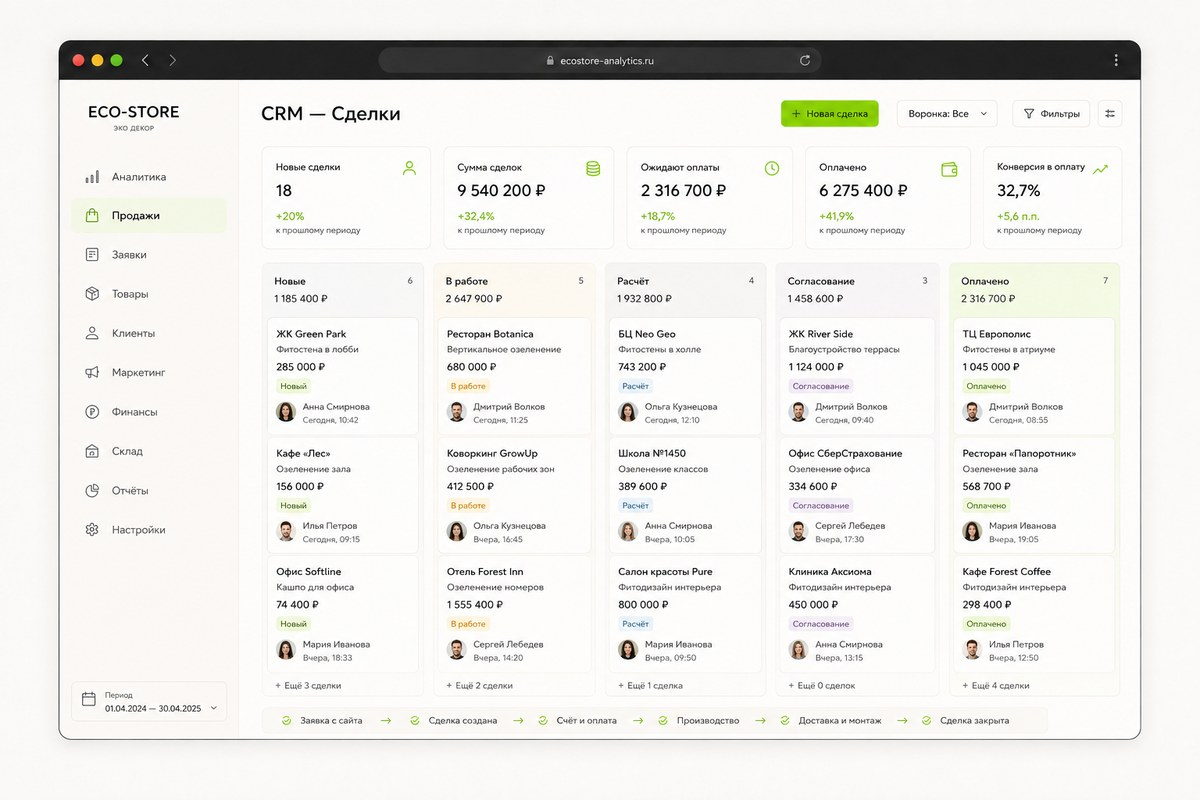
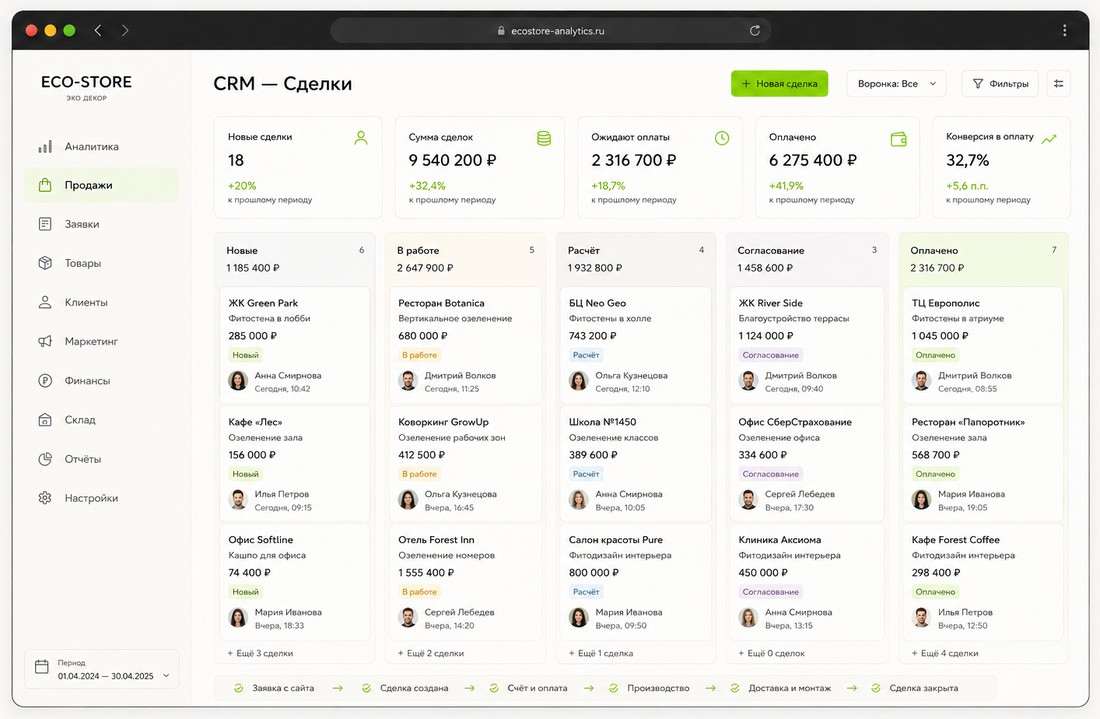
Обложка кейса Eco-Store: убрать «купола» и наложение стрелки на мобиле
- Скриншоты обрезаны вплотную к окну браузера (без внешнего паддинга
  макета), убран эффект «плавающего купола» при кропе.
- Единый радиус скругления углов на всех трёх окошках стека вместо
  разных (было асимметрично у первого).
- Компактнее величина цифры в .case-cover-stat на мобильной версии —
  стрелка карусели больше не перекрывает подпись «рабочий месячный
  оборот».

diff --git a/site/case-preview.html b/site/case-preview.html
@@ -1115,11 +1115,11 @@ h2.sec-title{
 /* Стопка экранов на обложке: настоящий сайт спереди, остальные —
    плейсхолдеры до реальных скринов (Каталог/Bitrix/CRM). */
 .case-cover-stack{position:absolute;z-index:1;right:1%;bottom:-3%;width:62%;height:56%;}
-.case-cover-stack>*{position:absolute;border-radius:10px;box-shadow:0 18px 45px rgba(0,0,0,.5);overflow:hidden;}
+.case-cover-stack>*{position:absolute;border-radius:12px;box-shadow:0 18px 45px rgba(0,0,0,.5);overflow:hidden;}
 .case-cover-stack .case-cover-shot{display:block;object-fit:cover;}
-.case-cover-stack .case-cover-1{left:0;bottom:0;width:46%;height:72%;z-index:3;border-radius:14px 14px 0 0;}
-.case-cover-stack .case-cover-2{left:32%;top:4%;width:38%;height:88%;z-index:2;}
-.case-cover-stack .case-cover-3{left:62%;top:16%;width:34%;height:62%;z-index:1;}
+.case-cover-stack .case-cover-1{left:0;bottom:0;width:46%;height:64%;z-index:3;}
+.case-cover-stack .case-cover-2{left:32%;top:10%;width:38%;height:70%;z-index:2;}
+.case-cover-stack .case-cover-3{left:62%;top:20%;width:34%;height:56%;z-index:1;}
 /* Декоративная линия роста между заголовком и цифрой оборота */
 .case-cover-graph{position:absolute;z-index:2;left:2%;top:52%;width:22%;height:20%;pointer-events:none;overflow:visible;}
 .case-cover-graph .dot-start{fill:rgba(168,220,40,.6);}
@@ -1507,7 +1507,9 @@ h2.sec-title{
   .case-analysis-grid,.case-traffic-grid,.case-pack-grid,.case-system-grid,.case2-grid{grid-template-columns:1fr;height:auto;gap:clamp(14px,4vw,22px);}
   .case2-grid .case2-photo{aspect-ratio:16/10;height:auto;object-fit:cover;}
   .case-cols{grid-template-columns:1fr 1fr;gap:clamp(14px,4vw,22px);}
-  .case-cover-copy{width:100%;}.case-cover-stat{position:static;margin-top:16px;text-align:left;}
+  .case-cover-copy{width:100%;}.case-cover-stat{position:static;margin-top:8px;text-align:left;}
+  .case-cover-stat span{font-size:18px;}
+  .case-cover-stat b{font-size:32px;line-height:1;}
   .case-cover-graph{display:none;}
   .case-cover-stack{position:relative;right:auto;bottom:auto;width:100%;height:220px;margin:16px 0 0;}
   /* картинки не обрезаем — полностью, в своих природных пропорциях */

diff --git a/site/index.html b/site/index.html
@@ -1115,11 +1115,11 @@ h2.sec-title{
 /* Стопка экранов на обложке: настоящий сайт спереди, остальные —
    плейсхолдеры до реальных скринов (Каталог/Bitrix/CRM). */
 .case-cover-stack{position:absolute;z-index:1;right:1%;bottom:-3%;width:62%;height:56%;}
-.case-cover-stack>*{position:absolute;border-radius:10px;box-shadow:0 18px 45px rgba(0,0,0,.5);overflow:hidden;}
+.case-cover-stack>*{position:absolute;border-radius:12px;box-shadow:0 18px 45px rgba(0,0,0,.5);overflow:hidden;}
 .case-cover-stack .case-cover-shot{display:block;object-fit:cover;}
-.case-cover-stack .case-cover-1{left:0;bottom:0;width:46%;height:72%;z-index:3;border-radius:14px 14px 0 0;}
-.case-cover-stack .case-cover-2{left:32%;top:4%;width:38%;height:88%;z-index:2;}
-.case-cover-stack .case-cover-3{left:62%;top:16%;width:34%;height:62%;z-index:1;}
+.case-cover-stack .case-cover-1{left:0;bottom:0;width:46%;height:64%;z-index:3;}
+.case-cover-stack .case-cover-2{left:32%;top:10%;width:38%;height:70%;z-index:2;}
+.case-cover-stack .case-cover-3{left:62%;top:20%;width:34%;height:56%;z-index:1;}
 /* Декоративная линия роста между заголовком и цифрой оборота */
 .case-cover-graph{position:absolute;z-index:2;left:2%;top:52%;width:22%;height:20%;pointer-events:none;overflow:visible;}
 .case-cover-graph .dot-start{fill:rgba(168,220,40,.6);}
@@ -1507,7 +1507,9 @@ h2.sec-title{
   .case-analysis-grid,.case-traffic-grid,.case-pack-grid,.case-system-grid,.case2-grid{grid-template-columns:1fr;height:auto;gap:clamp(14px,4vw,22px);}
   .case2-grid .case2-photo{aspect-ratio:16/10;height:auto;object-fit:cover;}
   .case-cols{grid-template-columns:1fr 1fr;gap:clamp(14px,4vw,22px);}
-  .case-cover-copy{width:100%;}.case-cover-stat{position:static;margin-top:16px;text-align:left;}
+  .case-cover-copy{width:100%;}.case-cover-stat{position:static;margin-top:8px;text-align:left;}
+  .case-cover-stat span{font-size:18px;}
+  .case-cover-stat b{font-size:32px;line-height:1;}
   .case-cover-graph{display:none;}
   .case-cover-stack{position:relative;right:auto;bottom:auto;width:100%;height:220px;margin:16px 0 0;}
   /* картинки не обрезаем — полностью, в своих природных пропорциях */
